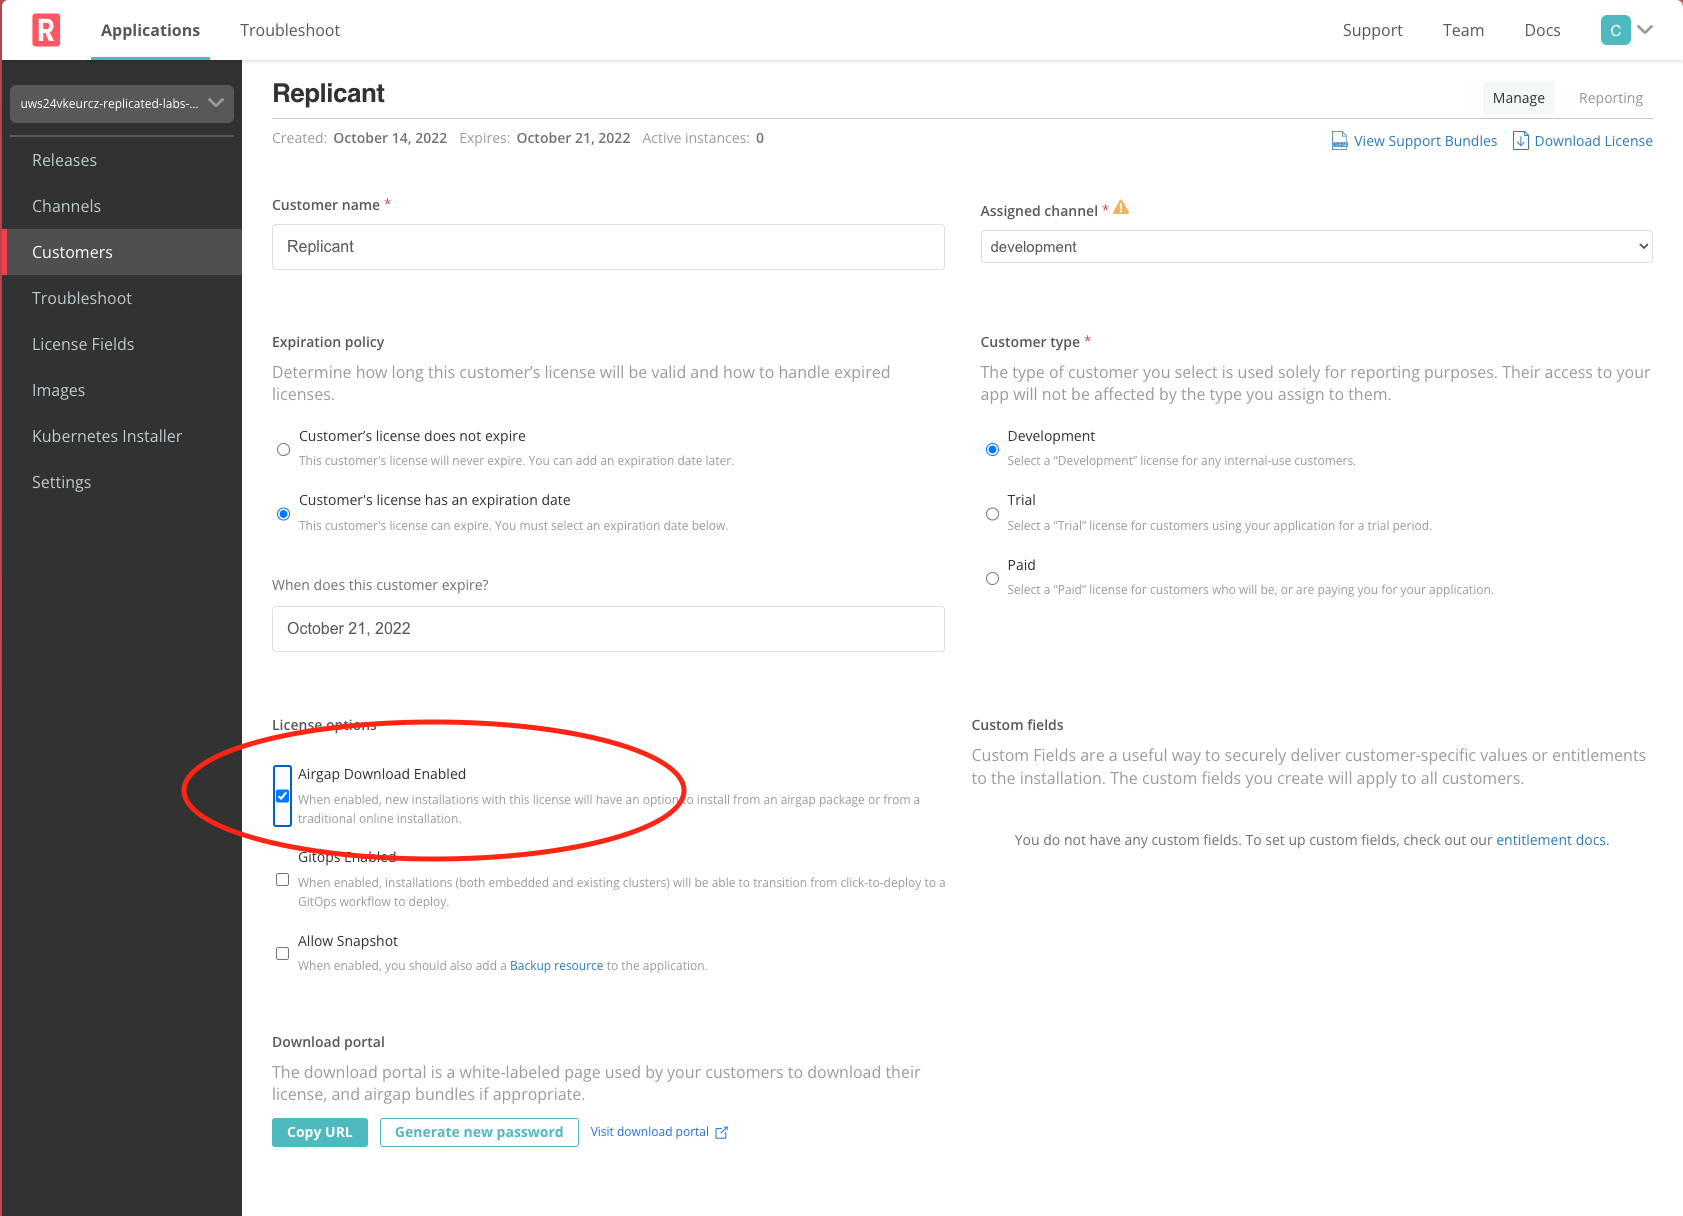
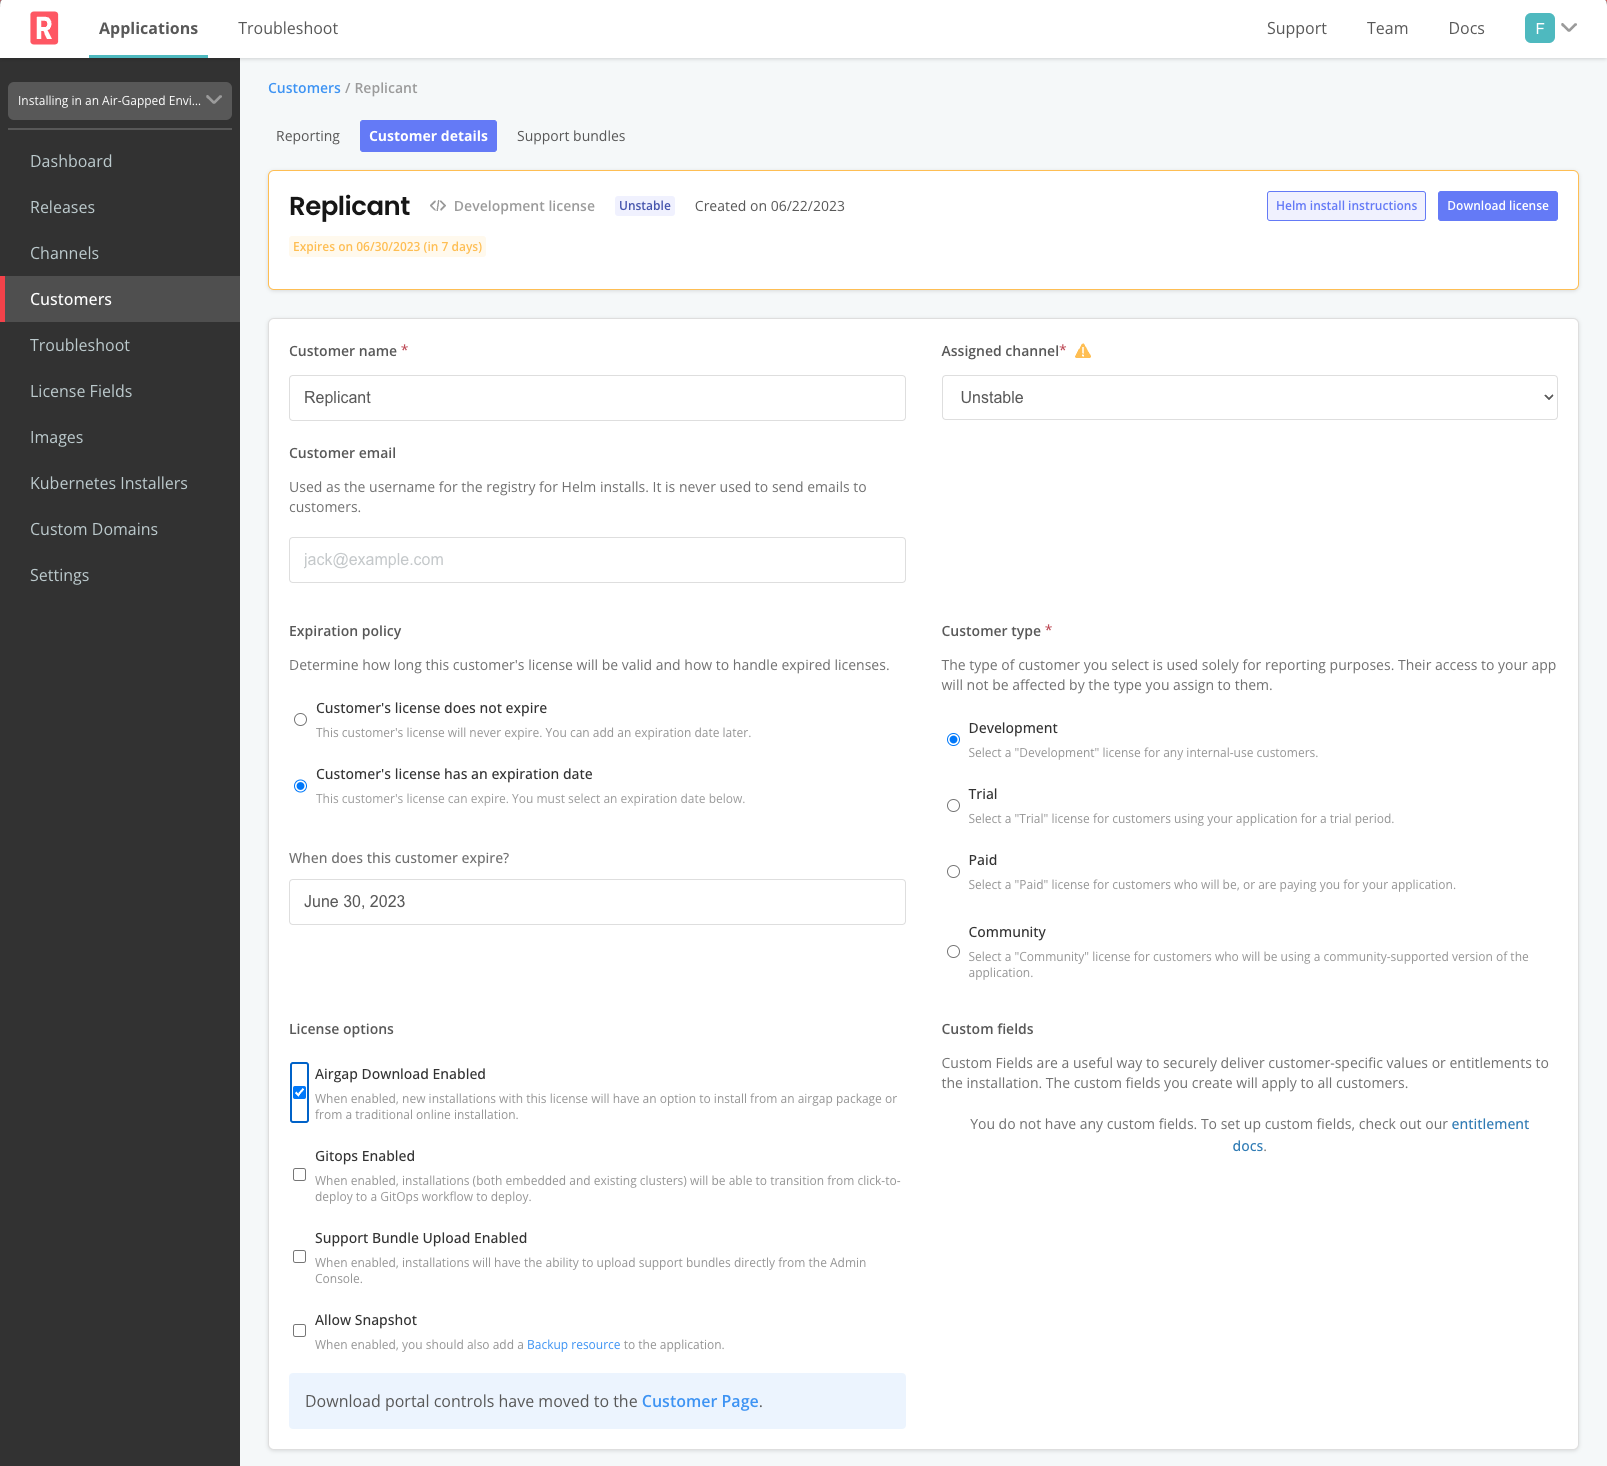
Modernizes Airgap KOTS lab

diff --git a/instruqt/airgap-embedded/01-prepare-your-jumpbox/assignment.md b/instruqt/airgap-embedded/01-prepare-your-jumpbox/assignment.md
@@ -48,20 +48,12 @@ timelimit: 300
 
 ## Connecting to the Replicated Vendor Portal
 
-Log into the Replicated Vendor Portal in the "Vendor Portal" tab using the username
-and password printed to your screen in the "Shell" tab.
+Log into the Replicated Vendor Portal in the "Vendor Portal" tab using the following credentials
 
-```
-username: [PARTICIPANT_ID]@replicated-labs.com
-password: [PASSWORD]
-```
-
-Once you have the credentials, you can login into the Vendor tab and you should land on the Channels tab.
+Username: `[[ Instruqt-Var key="USERNAME" hostname="jumpbox" ]]`<br/>
+Password: `[[ Instruqt-Var key="PASSWORD" hostname="jumpbox" ]]`
 
 ![Vendor Portal Login](../assets/vendor-portal-login.png)
-
-After logging in, you're going to identify your application and create an API token to use with the
-Replicated command-line, then set up some environment variables in your shell to store them.
 
 ### Configure environment
 
@@ -79,22 +71,28 @@ When you go back to the "Shell" tab you'll set the variable `REPLICATED_APP` to 
 the `replicated` command which application you are working on without you having to passing it as
 an argument to every command.
 
-Next, create a `read/write` User API token from your [Account Settings](https://vendor.replicated.com/account-settings)
-page:
+The other thing you need to work with your application is an API token. You
+would usually create `read/write` User API token from the [Account
+Settings](https://vendor.replicated.com/account-settings) page. For this lab,
+we've created one for you. You set the variable `REPLICATED_API_TOKEN` to the
+value of the token.
 
-![Creating an API token](../assets/create-api-token.png)
-
-Note: Ensure the token has "Write" access or you'll be unable to create new releases.
-
-Once you have the values, go back to the "Shell" tab and set them in your environment.
+Set the environment variables in your shell.
 
 ```
-export REPLICATED_APP=...
-export REPLICATED_API_TOKEN=...
+export REPLICATED_APP=[[ Instruqt-Var key="REPLICATED_APP" hostname="jumpbox"]]
+export REPLICATED_API_TOKEN=[[Instruqt-Var key="REPLICATED_API_TOKEN" hostname="jumpbox"]]
 ```
 
-You can ensure this is working with
+You can ensure you are authenticated and using the right application by running
 
 ```
 replicated release ls
+```
+
+If you see a list of releases everything is configured correctly.
+
+```
+SEQUENCE    CREATED                 EDITED                  ACTIVE_CHANNELS
+1           2023-06-23T00:45:18Z    0001-01-01T00:00:00Z    Unstable
 ```

diff --git a/instruqt/airgap-embedded/02-airgap-deployment-assets/assignment.md b/instruqt/airgap-embedded/02-airgap-deployment-assets/assignment.md
@@ -63,16 +63,16 @@ VERSION:        0.0.1
 EXISTING:
 
     curl -fsSL https://kots.io/install | bash
-    kubectl kots install installing-in-an-air-gapped-environment-q4b0wn3mzsqj/unstable
+    kubectl kots install [[Instruqt-Var key="REPLICATED_APP" hostname="jumpbox"]]/unstable
 
 EMBEDDED:
 
-    curl -fsSL https://k8s.kurl.sh/installing-in-an-air-gapped-environment-q4b0wn3mzsqj-unstable | sudo bash
+    curl -fsSL https://k8s.kurl.sh/[[Instruqt-Var key="REPLICATED_APP" hostname="jumpbox"]]-unstable | sudo bash
 
 AIRGAP:
-    curl -fSL -o installing-in-an-air-gapped-environment-q4b0wn3mzsqj-unstable.tar.gz https://k8s.kurl.sh/bundle/installing-in-an-air-gapped-environment-q4b0wn3mzsqj-unstable.tar.gz
-    # ... scp or sneakernet installing-in-an-air-gapped-environment-q4b0wn3mzsqj-unstable.tar.gz to airgapped machine, then
-    tar xvf installing-in-an-air-gapped-environment-q4b0wn3mzsqj-unstable.tar.gz
+    curl -fSL -o [[Instruqt-Var key="REPLICATED_APP" hostname="jumpbox"]]-unstable.tar.gz https://k8s.kurl.sh/bundle/installing-in-an-air-gapped-environment-q4b0wn3mzsqj-unstable.tar.gz
+    # ... scp or sneakernet [[Instruqt-Var key="REPLICATED_APP" hostname="jumpbox"]]-unstable.tar.gz to airgapped machine, then
+    tar xvf [[Instruqt-Var key="REPLICATED_APP" hostname="jumpbox"]]-unstable.tar.gz
     sudo bash ./install.sh airgap
 ```
 
@@ -80,10 +80,8 @@ The file download we're interested in is in the `AIRGAP` section of the
 output. We're going to run the first command in that list to get the bundle
 onto our jumpbox.
 
-In my case:
-
 ```bash
-curl -fSL -o installing-in-an-air-gapped-environment-q4b0wn3mzsqj-unstable.tar.gz https://k8s.kurl.sh/bundle/installing-in-an-air-gapped-environment-q4b0wn3mzsqj-unstable.tar.gz
+curl -fSL -o [[Instruqt-Var key="REPLICATED_APP" hostname="jumpbox"]]-unstable.tar.gz https://k8s.kurl.sh/bundle/[[Instruqt-Var key="REPLICATED_APP" hostname="jumpbox"]]-unstable.tar.gz
 ```
 
 This will take several minutes, leave this running and proceed to the next step, we'll come back in a few minutes.

diff --git a/instruqt/airgap-embedded/03-building-an-air-gap-release/assignment.md b/instruqt/airgap-embedded/03-building-an-air-gap-release/assignment.md
@@ -24,6 +24,12 @@ our current application release. You can see your download status in
 the "Jumpbox" tab. We'll mostly be working in the "Vendor Portal" for
 this lab.
 
+You should still be logged it, but just in case, here's your username
+and password again.
+
+Username: `[[ Instruqt-Var key="USERNAME" hostname="jumpbox" ]]`<br/>
+Password: `[[ Instruqt-Var key="PASSWORD" hostname="jumpbox" ]]`
+
 Since air-gapped bundles can be quite large, not all release channels
 build them automatically. Two of the default channels, `Stable` and
 `Beta` are configured to do it. Other channels can be set to auto
@@ -56,11 +62,12 @@ the channel and then "Build" next to the release.
 Enabling Airgap for a customer
 ==============================
 
-Customers are automatically enabled for air gap deployment. This
-gives you flexibility in terms of product packaging and deployment.
-Let's enable air-gap downloads for the example customer we're using
-for the lab. Go to "Customers" in the Vendor portal and select the
-"Replicant" customer to enable the airgap.
+Customers are automatically enabled for air gap deployment. This gives you
+flexibility in terms of product packaging and deployment. Let's enable air-gap
+downloads for the example customer we're using for the lab. Go to "Customers"
+in the Vendor portal and select the "Replicant" customer to enable the airgap.
+Then select "Customer Details" so you can edit their license options to allow
+installation from an airgap bundle.
 
 ![Enabling Airgap Downloads for a Customer](../assets/airgap-customer-enable.png)
 
@@ -94,3 +101,4 @@ We're only going to download the license file and the application
 bundle right now. We started downloading the kURL bundle in the previous
 step, so we don't need to do that again.
 
+Click the "Download license" button, then the "Download airgap bundle" button.

diff --git a/instruqt/airgap-embedded/04-moving-assets-into-place/assignment.md b/instruqt/airgap-embedded/04-moving-assets-into-place/assignment.md
@@ -26,11 +26,11 @@ Recall the three assets we need for an Air Gap installation:
 2. An Air Gap bundle containing the kURL cluster components
 3. An Air Gap bundle containing the application components
 
-We've already begun the download of item (2), since it's the largest
-one and we needed some time for it to complete. We also saw how your
-customer gets access to all three assets from the Replicated download
-portal, then grabbed their license file. Now we're going to grab the
-application bundle using the command line.
+We've already begun the download of item (2), since it's the largest one and we
+needed some time for it to complete. We also saw how your customer gets access
+to all three assets from the Replicated download portal, then grabbed their
+license file and application bundle. Now we're going to grab the application
+bundle using the command line.
 
 At this point, your download of the kURL bundle should be completed. If
 not, wait for it to complete before you continue.
